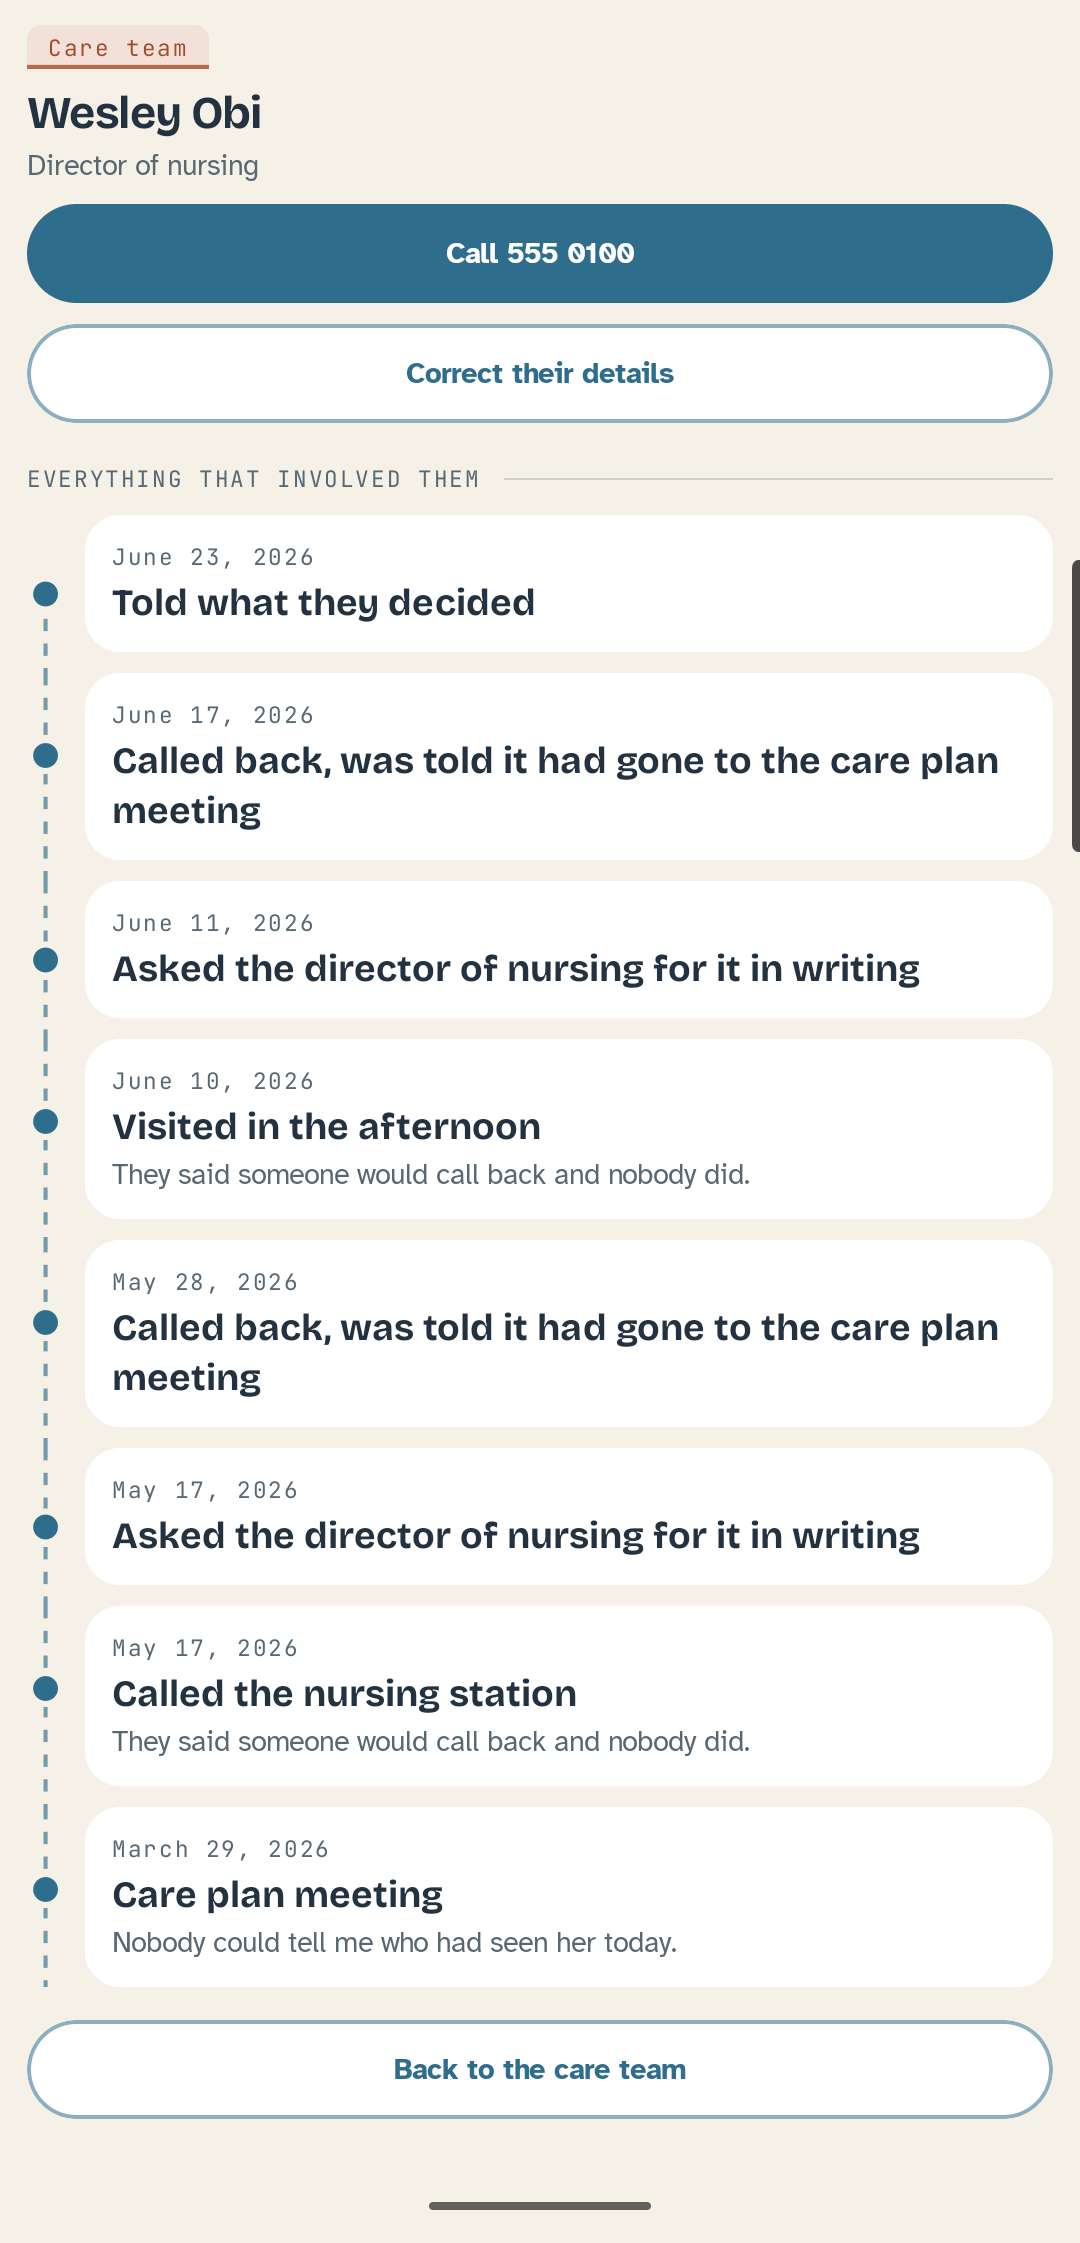
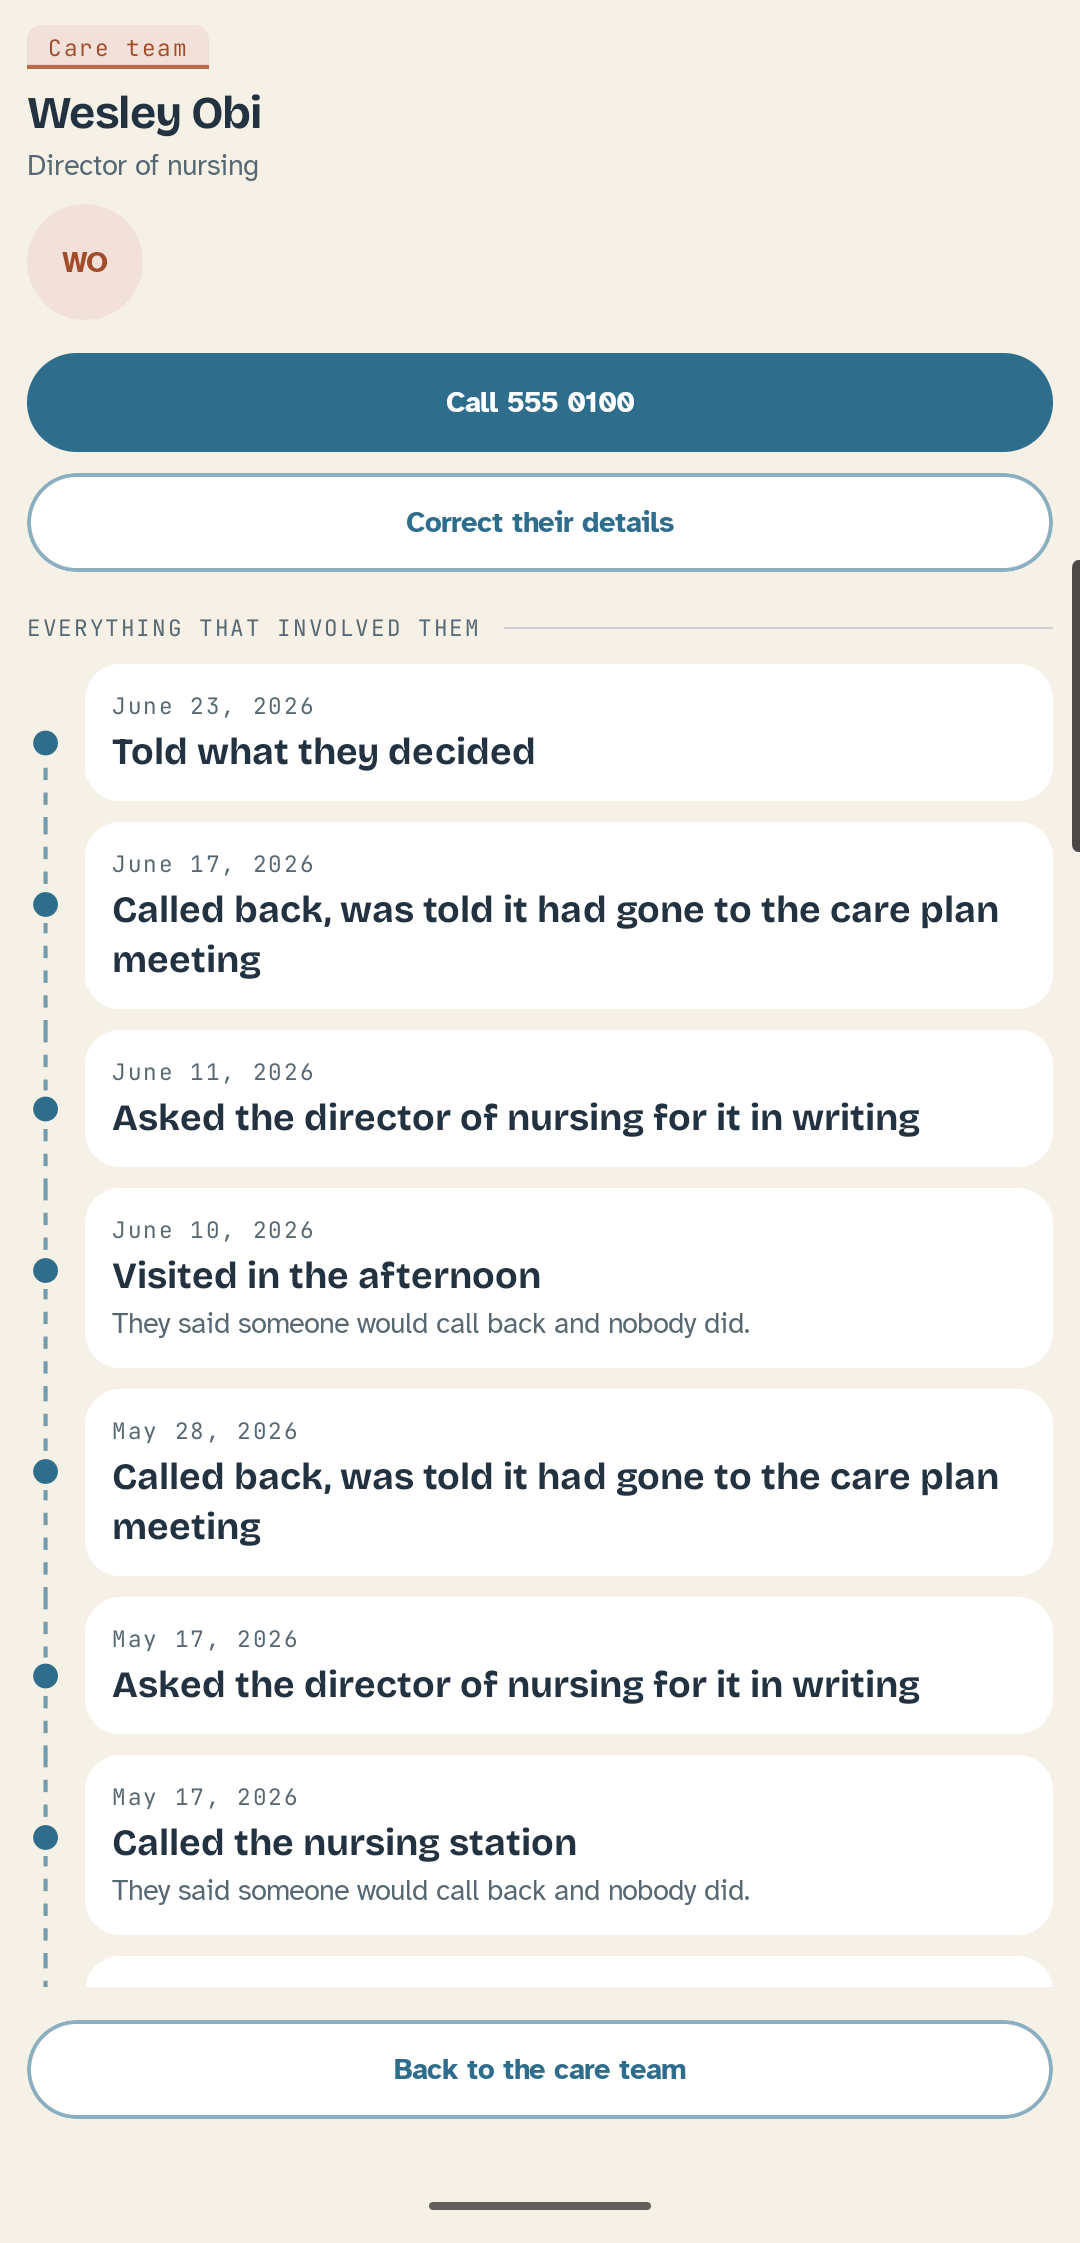
One person opens with the person
#191. Follows grid 09.

The screen had the name, the role, and two buttons. Identity first means
the mark as well as the words: initials at 56dp in the care team's own
rose, which is what turns a list of nine names into a list of nine people
and what makes this screen recognizably part of that section.

It sits under the name rather than beside it. The scaffold's heading is
where the name belongs, and putting a second copy of it next to the mark
would be the same words twice, which is the defect this screen was fixed
for an hour ago.

Everything else was already right and is left alone: what you need to know
before you dial sits above the thing that dials, one filled call, one
outlined correction, then the spine of every call, visit and question that
involved them, which is the other half of rule 18's both-ways link.

Verified in light, dark, at font scale 2.0 and in Arabic. At 2.0 the
avatar stays 56dp, which is right for a mark rather than for words, and
nothing clips.

Changed region(s): [[0.0, 0.0936, 0.9778, 0.905], [0.0306, 0.5617, 0.0611, 0.593]]

diff --git a/android/app/src/main/kotlin/com/kamsiob/healthtrail/ui/screens/PersonScreen.kt b/android/app/src/main/kotlin/com/kamsiob/healthtrail/ui/screens/PersonScreen.kt
@@ -13,6 +13,9 @@ import androidx.compose.ui.draw.clip
 import androidx.compose.ui.platform.testTag
 import androidx.compose.ui.semantics.semantics
 import com.kamsiob.healthtrail.data.Repository
+import com.kamsiob.healthtrail.ui.components.Avatar
+import com.kamsiob.healthtrail.ui.components.AvatarSize
+import com.kamsiob.healthtrail.ui.theme.hueFor
 import com.kamsiob.healthtrail.i18n.Bidi
 import com.kamsiob.healthtrail.i18n.LocalStrings
 import com.kamsiob.healthtrail.time.EventDateText
@@ -85,6 +88,21 @@ fun PersonScreen(
         backLabelKey = backLabelKey,
         modifier = modifier,
     ) {
+        // **Identity first, at 56dp.** A person's screen opens with the person,
+        // and initials in their section's own wash are what makes a list of
+        // nine names a list of nine people. It sits under the name rather than
+        // beside it, because the scaffold's heading is where the name belongs
+        // and putting a second copy of it next to the mark would be the same
+        // words twice again.
+        item {
+            Avatar(
+                name = person.displayName,
+                hue = hueFor(Repository.Section.CARE_TEAM),
+                size = AvatarSize.header,
+            )
+            Spacer(Modifier.height(Space.m))
+        }
+
         // **What you need to know before you dial, above the thing that
         // dials.** "Days, 7 to 3, ask for her by name" and "the one who
         // actually calls back" are the reason somebody opened this screen at
